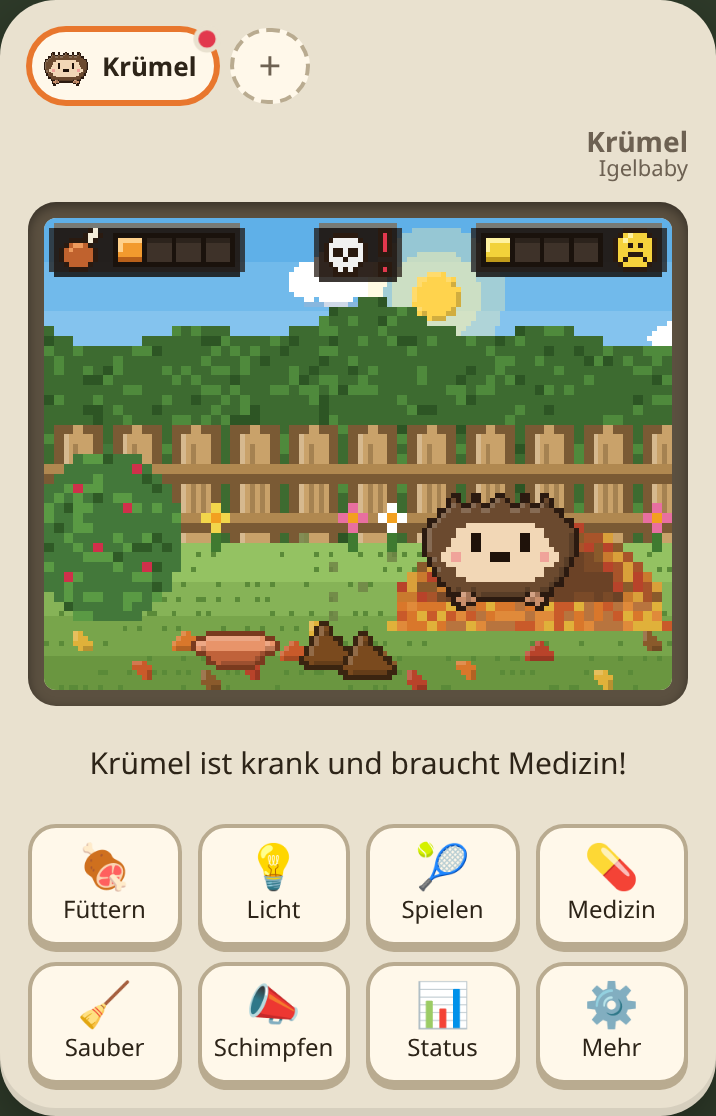
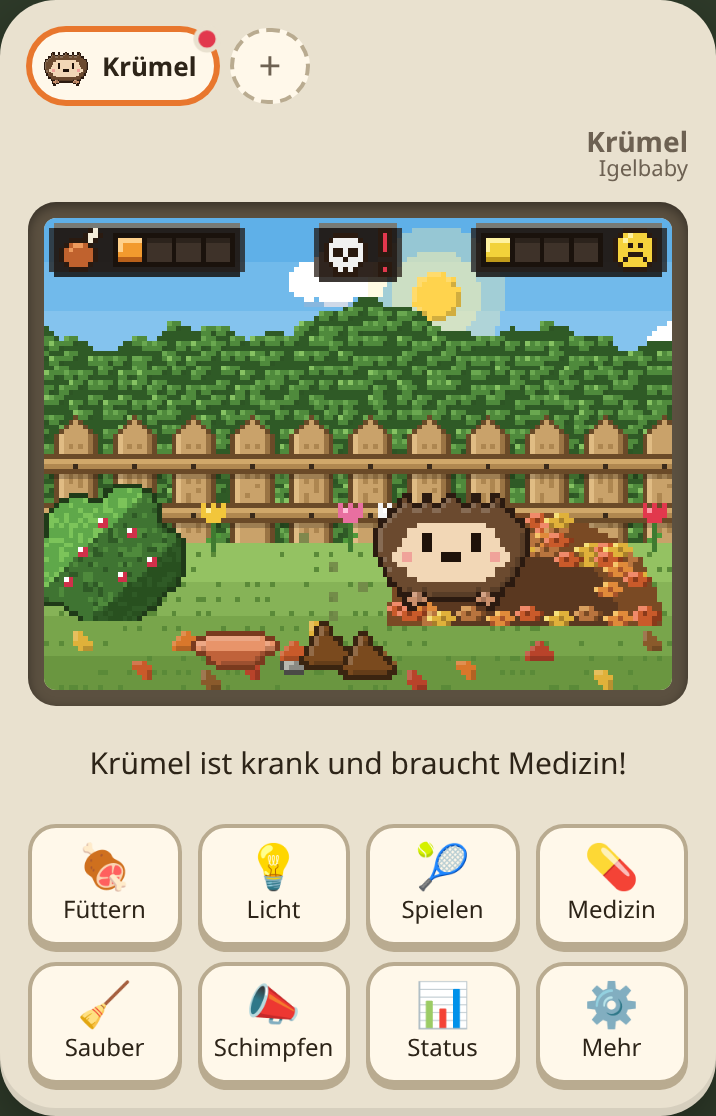
Zufälliges Verhalten: laufen, Pausen, umschauen, putzen, strecken, vorbeikommenden Tieren nachschauen

Changed region(s): [[0.0615, 0.2742, 0.9525, 0.5789], [0.3994, 0.5789, 0.4302, 0.6093]]

diff --git a/src/render/scene.ts b/src/render/scene.ts
@@ -200,6 +200,12 @@ export class Scene {
   private meal: { kind: 'food' | 'candy'; eatStart: number | null } | null = null;
   private walkX = 30;
   private walkDir = 1;
+  private act: { kind: 'walk' | 'idle' | 'look' | 'groom' | 'stretch' | 'watch'; start: number; until: number; target?: number; speed?: number } = {
+    kind: 'idle',
+    start: 0,
+    until: 0,
+  };
+  private watched = -1;
   private lastFrame = performance.now();
   private env: SceneKind = 'room';
   private shownPetId: string | null = null;
@@ -214,6 +220,7 @@ export class Scene {
     this.fx = null;
     this.walkX = 30;
     this.walkDir = 1;
+    this.act = { kind: 'idle', start: 0, until: 0 };
     this.hatchStart = this.flashStart = this.jumpStart = this.shakeStart = -Infinity;
   }
 
@@ -664,16 +671,35 @@ export class Scene {
     this.nestFront();
   }
 
+  /** zufällig das nächste Verhalten wählen */
+  private nextAct(t: number, p: Pet, from: number, to: number) {
+    const groomer = p.species === 'cat' || p.species === 'dog' || p.species === 'fox';
+    const r = Math.random();
+    if (r < 0.42) {
+      let target = from + Math.random() * (to - from);
+      if (Math.abs(target - this.walkX) < 4) target = this.walkX < (from + to) / 2 ? to : from;
+      const speed = p.sick ? 2.5 + Math.random() * 2 : 4 + Math.random() * 9;
+      return { kind: 'walk' as const, start: t, until: t + 20000, target, speed };
+    }
+    if (r < 0.66) return { kind: 'idle' as const, start: t, until: t + 1000 + Math.random() * 3000 };
+    if (r < 0.8 || !groomer || p.sick) return { kind: 'look' as const, start: t, until: t + 2000 + Math.random() * 2000 };
+    if (r < 0.92) return { kind: 'groom' as const, start: t, until: t + 2400 };
+    return { kind: 'stretch' as const, start: t, until: t + 1600 };
+  }
+
   private drawPetWalking(p: Pet, sp: SpeciesDef, t: number) {
     const ctx = this.ctx;
     const dt = Math.min(0.1, (t - this.lastFrame) / 1000);
     this.lastFrame = t;
-    const blink = t % 3500 < 150;
-    const { map, colors: pal, w, h } = petSprite(sp, p, { eyesClosed: blink });
+    const base = petSprite(sp, p);
+    const w = base.w;
+    const h = base.h;
 
     const from = 12;
     const to = Math.max(from + 8, 58 - w);
     let eating = false;
+    let gaze = 0;
+    let face = this.walkDir;
     const m = this.meal;
     if (m) {
       // zum Napf laufen, dann fressen
@@ -683,6 +709,7 @@ export class Scene {
         if (Math.abs(diff) <= 0.5) m.eatStart = t;
         else {
           this.walkDir = Math.sign(diff);
+          face = this.walkDir;
           this.walkX += this.walkDir * Math.min(Math.abs(diff), WALK_SPEED_TO_BOWL * dt);
         }
       }
@@ -692,27 +719,76 @@ export class Scene {
           if (m.kind === 'candy') this.jumpStart = t;
           this.meal = null;
           eating = false;
+          this.act = { kind: 'idle', start: t, until: t + 800 };
         }
       }
     } else {
-      // gemütlich hin und her laufen
-      const speed = ((to - from) / (p.sick ? 4.5 : 2.25)) * dt;
-      this.walkX += this.walkDir * speed;
-      if (this.walkX >= to) (this.walkX = to), (this.walkDir = -1);
-      if (this.walkX <= from) (this.walkX = from), (this.walkDir = 1);
+      // vorbeikommendem Tier nachschauen
+      const crit = this.critters.watchTarget();
+      if (crit && crit.id !== this.watched && !p.sick) {
+        this.watched = crit.id;
+        this.act = { kind: 'watch', start: t, until: t + 6000 };
+      }
+      if (this.act.kind === 'watch' && !crit) this.act.until = Math.min(this.act.until, t + 700);
+      if (t >= this.act.until) this.act = this.nextAct(t, p, from, to);
+      const a = this.act;
+      if (a.kind === 'walk') {
+        const diff = (a.target ?? this.walkX) - this.walkX;
+        if (Math.abs(diff) < 0.3) a.until = t;
+        else {
+          this.walkDir = Math.sign(diff);
+          this.walkX += this.walkDir * Math.min(Math.abs(diff), (a.speed ?? 6) * dt);
+        }
+        face = this.walkDir;
+      } else if (a.kind === 'watch' && crit) {
+        const dir = crit.x < this.walkX + w / 2 ? -1 : 1;
+        this.walkDir = dir;
+        face = dir;
+        gaze = dir;
+      } else if (a.kind === 'look') {
+        gaze = Math.sin((t - a.start) / 450) > 0 ? 1 : -1;
+      }
     }
-    let x = this.walkX;
-    const flip = this.walkDir < 0;
+    const flip = face < 0;
+    const a = this.act;
+    const grooming = !m && a.kind === 'groom';
+    const stretching = !m && a.kind === 'stretch';
+    const k = (t - a.start) / Math.max(1, a.until - a.start);
+    const blink = t % 3500 < 150;
+    // Blickrichtung ist im Bild gemeint; bei gespiegeltem Sprite umdrehen
+    const img = petSprite(sp, p, { eyesClosed: blink || grooming || stretching, gaze: flip ? -gaze : gaze });
 
-    let bob = p.sick ? 0 : Math.floor(t / 400) % 2;
-    if (eating) bob = -(Math.floor(t / 250) % 2); // Kopf in den Napf
+    let x = this.walkX;
+    let bob = 0;
+    if (!m && a.kind === 'walk' && !p.sick) bob = (Math.floor(t / 220) % 2) * 0.5;
+    if (eating || grooming) bob = -(Math.floor(t / 280) % 2) * 0.5; // Kopf runter (Napf / Putzen)
     const j = t - this.jumpStart;
     if (j >= 0 && j < 900) bob = Math.round(Math.abs(Math.sin((j / 900) * Math.PI * 2)) * 5);
     const s = t - this.shakeStart;
     if (s >= 0 && s < 600) x += Math.round(Math.sin(s / 25) * 1.5);
 
     const y = FLOOR_Y - h + 1 - bob;
-    drawMap(ctx, map, pal, x, y, flip);
+    if (stretching) {
+      // Strecken: breiter und flacher, am Boden verankert
+      const e = Math.sin(Math.PI * Math.min(1, k));
+      ctx.save();
+      ctx.translate(x + w / 2, FLOOR_Y + 1);
+      ctx.scale(1 + 0.18 * e, 1 - 0.14 * e);
+      drawMap(ctx, img.map, img.colors, -w / 2, -h, flip);
+      ctx.restore();
+    } else drawMap(ctx, img.map, img.colors, x, y, flip);
+
+    if (grooming) {
+      // Zunge beim Putzen und am Ende ein Glitzern
+      const ny = img.map.findIndex((r) => r.includes('n'));
+      if (ny >= 0 && Math.floor(t / 280) % 2 === 0) {
+        const nx = img.map[ny].indexOf('n');
+        const sx = flip ? w - 1 - nx : nx;
+        ctx.fillStyle = '#f07a8a';
+        ctx.fillRect(Math.round((x + sx) * 2) / 2, Math.round((y + ny + 1) * 2) / 2, 0.5, 0.5);
+      }
+      if (k > 0.75) drawMap(ctx, ICONS.sparkle.map, ICONS.sparkle.colors, x + w - 3, y - 2);
+    }
 
     if (p.variant === 'great' && Math.floor(t / 600) % 3 === 0) {
       drawMap(ctx, ICONS.sparkle.map, ICONS.sparkle.colors, x + w - 2, y - 4);

diff --git a/src/render/pixels.ts b/src/render/pixels.ts
@@ -155,6 +155,21 @@ export interface PetLook {
   brows?: boolean; // freche Variante: Augenbrauen
   pattern?: Pattern | string;
   seed?: number;
+  gaze?: number; // -1 = Augen nach links, 1 = nach rechts (im Sprite)
+}
+
+/** Blickrichtung: Augen-Pixel um eine Spalte verschieben (nur über Fell/Gesicht) */
+function shiftEyes(rows: string[], d: number): string[] {
+  return rows.map((row) => {
+    const a = [...row];
+    const idx = a.map((c, i) => (c === 'E' || c === 'e' ? i : -1)).filter((i) => i >= 0);
+    if (d > 0) idx.reverse();
+    for (const i of idx) {
+      const j = i + d;
+      if (j >= 0 && j < a.length && 'abcd'.includes(a[j])) [a[i], a[j]] = [a[j], a[i]];
+    }
+    return a.join('');
+  });
 }
 
 function mulberry32(seed: number) {
@@ -207,7 +222,8 @@ export function applyPattern(rows: string[], pattern: string, seed: number): str
 
 /** Sprite inkl. Varianten-Details (geschlossene Augen, Augenbrauen, Fellmuster). */
 export function petMap(sprite: Sprite, look: PetLook): string[] {
-  let rows = look.pattern ? applyPattern(sprite, look.pattern, look.seed ?? 1) : sprite;
+  let rows = look.gaze ? shiftEyes(sprite, Math.sign(look.gaze)) : sprite;
+  rows = look.pattern ? applyPattern(rows, look.pattern, look.seed ?? 1) : rows;
   rows = rows.map((r) => (look.eyesClosed ? r.replaceAll('E', 'a') : r));
   if (look.brows) {
     rows = rows.map((r, y) => {
@@ -223,7 +239,7 @@ export function petMap(sprite: Sprite, look: PetLook): string[] {
 export function petSprite(
   sp: SpeciesDef,
   pet: { stage: Stage; variant: Variant; look?: Look | null },
-  opts: { eyesClosed?: boolean; sleeping?: boolean } = {},
+  opts: { eyesClosed?: boolean; sleeping?: boolean; gaze?: number } = {},
 ) {
   const look = pet.look ?? null;
   const breed = look?.breed !== undefined ? sp.breeds?.[look.breed] : undefined;
@@ -233,6 +249,7 @@ export function petSprite(
   return {
     map: petMap(sprite, {
       eyesClosed: opts.eyesClosed,
+      gaze: opts.sleeping ? 0 : opts.gaze,
       brows: pet.variant === 'cheeky',
       pattern: look?.pattern,
       seed: look?.seed,

diff --git a/src/render/critters.ts b/src/render/critters.ts
@@ -141,11 +141,18 @@ export class Critters {
   private leaves: Leaf[] = [];
   private nextGust = performance.now() + 3000 + Math.random() * 6000;
   private last = performance.now();
+  private seen: { id: number; x: number } | null = null;
+
+  /** Tier, das gerade vorbeikommt (Mitte in Spiel-Einheiten), damit das Haustier hinschauen kann */
+  watchTarget(): { id: number; x: number } | null {
+    return this.seen;
+  }
 
   /** win = Fensterausschnitt im Zimmer (Vogel nur dort sichtbar) */
   draw(ctx: CanvasRenderingContext2D, env: SceneKind, day: boolean, t: number, win?: { x: number; y: number; w: number; h: number }) {
     const dt = Math.min(0.1, (t - this.last) / 1000);
     this.last = t;
+    this.seen = null;
     this.drawLeaves(ctx, env, t, dt);
     this.drawAnimal(ctx, env, day, t, win);
   }
@@ -215,6 +222,9 @@ export class Critters {
     }
     drawPixels(ctx, rows, sp.colors, snap(x), snap(y));
     ctx.restore();
+    const cx = x + w / 2;
+    const visible = inRoom ? cx > win!.x && cx < win!.x + win!.w : cx > 0 && cx < W;
+    if (visible) this.seen = { id: a.start, x: cx };
   }
 
   /** Windböen: ab und zu wehen ein paar Blätter durchs Bild (nur draußen) */

diff --git a/SPEC.md b/SPEC.md
@@ -229,11 +229,11 @@ Gesperrte Aktionen, zum Beispiel Füttern während des Schlafs, sind ausgegraut.
 
 **Umgebung je Tierart:**
 - **Katze:** wohnt drinnen im Zimmer (siehe unten).
-- **Fuchs:** lebt draußen **am Waldrand**: Himmel mit Sonne bzw. Mond und Sternen, Hügel, Tannen, Wiese mit Gras und links vorne ein runder **Busch** mit ein paar Beeren. Er schläft in einer **Baumhöhle**: Der Baum ist so hoch, dass man **nur den Stamm** sieht und keine Blätter. Der Stamm ist schlank, mit Rindenstruktur, Licht und Schatten, einem Aststummel, einem Astloch und Wurzeln. Unten im Stamm ist ein kleiner bogenförmiger Eingang zum Fuchsbau mit Laubpolster. Gefüttert wird auf einem flachen Stein.
-- **Igel:** lebt draußen **im Garten**: Hecke, Holzzaun, Busch mit Beeren, Blumen, Rasen mit Herbstlaub. Er schläft in einem **Laubhaufen**. Gefüttert wird aus einem Tonschälchen.
+- **Fuchs:** lebt draußen **am Waldrand**: Himmel mit Sonne bzw. Mond und Sternen, zwei Hügelketten mit kleinen Bäumen, **Tannen mit Ast-Etagen** (Licht links, Schatten rechts), Wiese mit Grashalmen, Steinen und einem **Fliegenpilz**, links vorne ein runder **Busch** mit Beeren. Der Baumstamm hat Rindenfurchen, Moos, Astknoten und einen Aststummel. Er schläft in einer **Baumhöhle**: Der Baum ist so hoch, dass man **nur den Stamm** sieht und keine Blätter. Der Stamm ist schlank, mit Rindenstruktur, Licht und Schatten, einem Aststummel, einem Astloch und Wurzeln. Unten im Stamm ist ein kleiner bogenförmiger Eingang zum Fuchsbau mit Laubpolster. Gefüttert wird auf einem flachen Stein.
+- **Igel:** lebt draußen **im Garten**: eine **Hecke aus einzelnen Blättern**, ein **Holzzaun mit spitzen Latten**, Maserung, Nägeln und Schatten, ein Busch mit roten Beeren, **Tulpen**, ein Stein und Rasen mit Herbstlaub. Der Laubhaufen besteht aus vielen einzelnen bunten Blättern. Er schläft in einem **Laubhaufen**. Gefüttert wird aus einem Tonschälchen.
 - Schlafplätze sind innen hell genug und verdecken nur den unteren Rand, damit man das schlafende Tier **gut erkennt**. Licht aus dunkelt das Bild nur so weit ab, dass das Tier sichtbar bleibt. Nachts ist draußen der Hintergrund zusätzlich dunkler.
 
-**Einrichtung (Katze, drinnen):** Das **Körbchen** steht rechts unter dem Fenster. Es ist ein geflochtener Weidenkorb mit geflochtenem Rand, nach unten schmaler werdend und mit Kissen. Das Ei liegt darin, und zum Schlafen legt sich das Tier hinein. Wach läuft es im Raum herum. Links im Raum steht ein **Futternapf** (bzw. Stein/Tonschale draußen). Die Haufen landen zwischen Napf und Körbchen.
+**Einrichtung (Katze, drinnen):** Das **Körbchen** steht rechts unter dem Fenster. Es ist ein **flacher**, geflochtener Weidenkorb mit Flechtrand und Kissen. Das Ei liegt darin, und zum Schlafen legt sich das Tier hinein. Wach läuft es im Raum herum. Links im Raum steht ein **Futternapf** (bzw. Stein/Tonschale draußen). Die Haufen landen zwischen Napf und Körbchen.
 
 **Fenster:** An der Wand hängt ein großes Fenster, durch das man die echte Tageszeit sieht:
 - Die **Sonne** wandert zwischen 7 und 20 Uhr im Bogen durchs Fenster. Sie geht links unten auf, steht mittags oben und geht rechts unten unter.
@@ -244,7 +244,14 @@ Gesperrte Aktionen, zum Beispiel Füttern während des Schlafs, sind ausgegraut.
 - **Fuchs:** Grasbüschel und Grashalme auf dem Boden.
 - **Igel:** buntes Herbstlaub auf dem Boden (orange, rot, gelb, braun).
 - **Hund:** auf dem Boden liegt ein Tennisball.
+- **Zimmer (Katze, Hund):** An der Wand hängt ein **Bild** mit einer kleinen Landschaft, auf dem Boden liegt ein ovaler **Teppich** mit Randmuster.
 - **Katze:** links im Zimmer (etwas vom Rand entfernt) steht ein Kratzbaum mit Sisalstamm und zwei Liegeflächen; oben hängt ein Spielball an einer Schnur und pendelt. Eine Zimmerpflanze gibt es nicht mehr.
+
+**Verhalten (wach):** Die Tiere bewegen sich zufällig und nie gleich:
+- Sie laufen zu zufälligen Stellen im Raum, mal schneller, mal langsamer. Kranke Tiere schleichen nur.
+- Sie machen **Pausen**: stehen bleiben, sich umschauen (die Augen wandern nach links und rechts).
+- **Katze, Hund und Fuchs** **putzen** sich ab und zu (Kopf nickt, Zunge blitzt auf, danach ein Glitzern) oder **strecken** sich (werden kurz breiter und flacher, Augen zu).
+- Kommt ein **Tier vorbei** (Maus, Igel, Reh, Vogel, auch der Vogel am Fenster), bleibt das Haustier **kurz stehen**, dreht sich hin und **schaut ihm nach**.
 
 **Animationen:**
 - **Ei:** Etwa 40 Sekunden vor dem Schlüpfen bekommt es die ersten Risse, die dann in drei Stufen mehr werden. Dabei wackelt es in immer kürzeren Abständen.
@@ -254,7 +261,7 @@ Gesperrte Aktionen, zum Beispiel Füttern während des Schlafs, sind ausgegraut.
 - **Schimpfen:** Das Tier schüttelt sich.
 - **Entwicklung:** Der Bildschirm blitzt weiß auf, danach hüpft das Tier.
 - **Haufen:** Über den Haufen steigen Stinkewölkchen auf.
-- **Schlaf:** Schlafende Tiere liegen in einer eigenen **eingerollten Schlafpose** im Körbchen bzw. in der Höhle. Fuchs, Katze und Hund liegen mit dem Kopf auf den Pfoten und dem Schwanz vorne herum, der Fuchs mit weißer Schwanzspitze. Der Igel rollt sich zur Stachelkugel ein. Hunde haben die Ohren ihrer Rasse (Steh-, Schlapp- oder kleine Ohren), Fellfarbe und Muster bleiben erhalten. Die Tiere atmen sanft, darüber schweben „Zzz“. In der Tier-Leiste oben erscheint ebenfalls die Schlafpose.
+- **Schlaf:** Schlafende Tiere liegen in einer eigenen **eingerollten Schlafpose** im Körbchen bzw. in der Höhle. Fuchs, Katze und Hund liegen mit dem Kopf auf den Pfoten und dem Schwanz vorne herum, der Fuchs mit weißer Schwanzspitze. Der Igel rollt sich zur Stachelkugel ein. Hunde haben die Ohren ihrer Rasse (Steh-, Schlapp- oder kleine Ohren), Fellfarbe und Muster bleiben erhalten. Die Tiere atmen ganz sanft (ein halber Pixel, langsam), darüber schweben „Zzz“. In der Tier-Leiste oben erscheint ebenfalls die Schlafpose.
 
 ## 9. Offene Fragen
 
